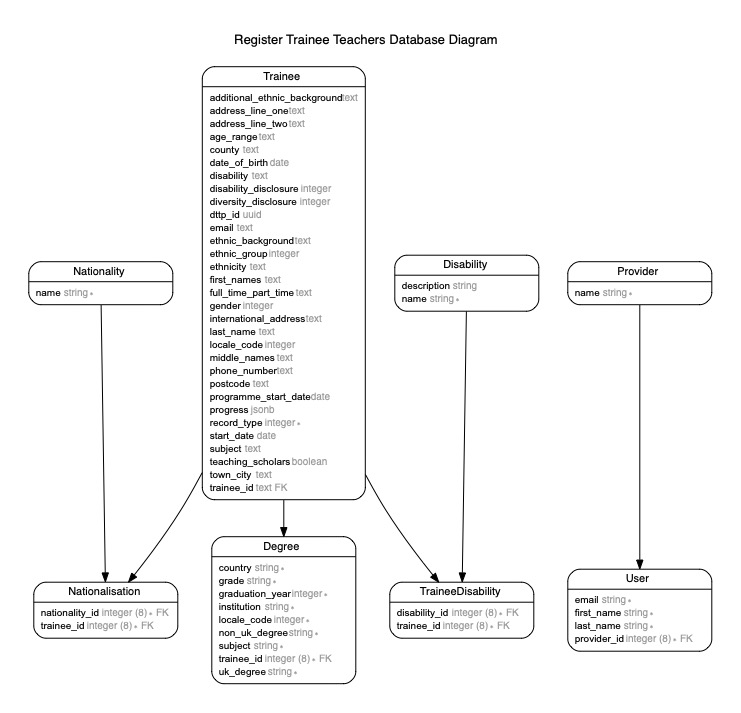
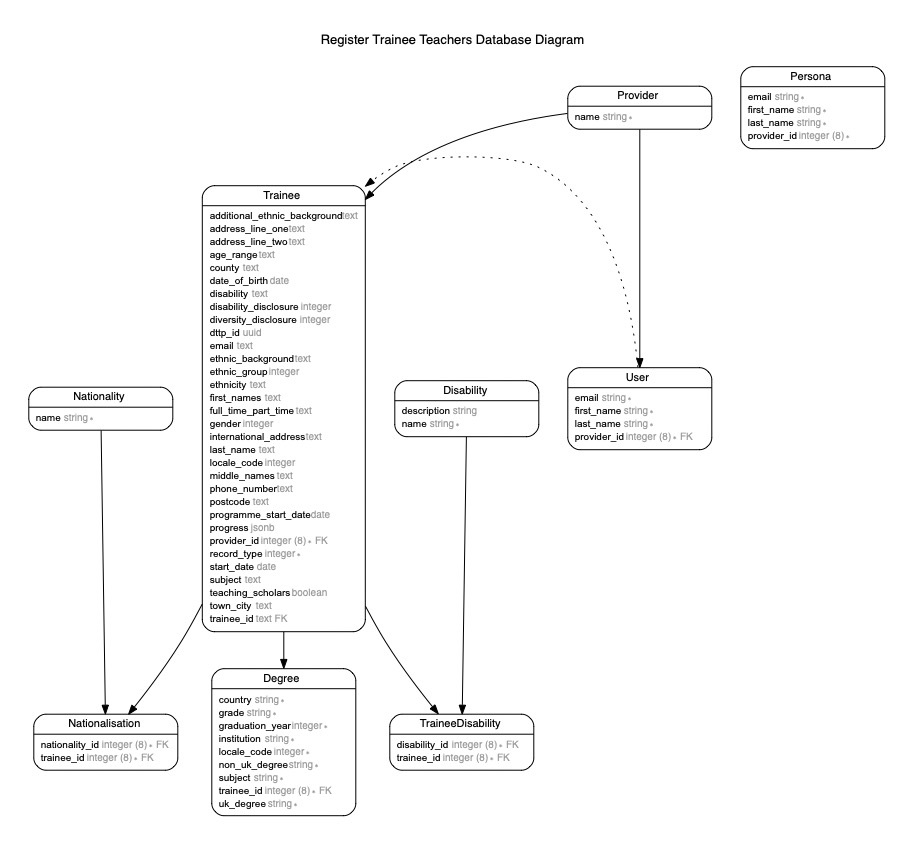
[383] Associate trainees with user's provider

diff --git a/db/schema.rb b/db/schema.rb
@@ -10,7 +10,7 @@
 #
 # It's strongly recommended that you check this file into your version control system.
 
-ActiveRecord::Schema.define(version: 2020_11_09_135332) do
+ActiveRecord::Schema.define(version: 2020_11_10_140112) do
 
   # These are extensions that must be enabled in order to support this database
   enable_extension "plpgsql"
@@ -104,6 +104,7 @@ ActiveRecord::Schema.define(version: 2020_11_09_135332) do
     t.text "age_range"
     t.date "programme_start_date"
     t.jsonb "progress", default: {}
+    t.bigint "provider_id", null: false
     t.index ["disability_disclosure"], name: "index_trainees_on_disability_disclosure"
     t.index ["diversity_disclosure"], name: "index_trainees_on_diversity_disclosure"
     t.index ["dttp_id"], name: "index_trainees_on_dttp_id"
@@ -111,6 +112,7 @@ ActiveRecord::Schema.define(version: 2020_11_09_135332) do
     t.index ["gender"], name: "index_trainees_on_gender"
     t.index ["locale_code"], name: "index_trainees_on_locale_code"
     t.index ["progress"], name: "index_trainees_on_progress", using: :gin
+    t.index ["provider_id"], name: "index_trainees_on_provider_id"
     t.index ["record_type"], name: "index_trainees_on_record_type"
   end
 
@@ -130,5 +132,6 @@ ActiveRecord::Schema.define(version: 2020_11_09_135332) do
   add_foreign_key "nationalisations", "trainees"
   add_foreign_key "trainee_disabilities", "disabilities"
   add_foreign_key "trainee_disabilities", "trainees"
+  add_foreign_key "trainees", "providers"
   add_foreign_key "users", "providers"
 end

diff --git a/app/controllers/trainees_controller.rb b/app/controllers/trainees_controller.rb
@@ -1,10 +1,12 @@
 class TraineesController < ApplicationController
+  before_action :authenticate
+
   def index
-    @trainees = Trainee.all
+    @trainees = current_user.trainees.all
   end
 
   def show
-    @trainee = Trainee.find(params[:id])
+    @trainee = current_user.trainees.find(params[:id])
   end
 
   def new
@@ -15,7 +17,7 @@ class TraineesController < ApplicationController
     if trainee_params[:record_type] == "other"
       redirect_to trainees_not_supported_route_path
     else
-      @trainee = Trainee.new(trainee_params)
+      @trainee = current_user.provider.trainees.build(trainee_params)
       if @trainee.save
         redirect_to trainee_path(@trainee)
       else
@@ -25,7 +27,7 @@ class TraineesController < ApplicationController
   end
 
   def update
-    @trainee = Trainee.find(params[:id])
+    @trainee = current_user.trainees.find(params[:id])
     @trainee.update!(trainee_params)
     redirect_to trainee_path(@trainee)
   end
@@ -33,8 +35,7 @@ class TraineesController < ApplicationController
 private
 
   def trainee_params
-    params.require(:trainee)
-      .permit(trainee_all_params, nationality_ids: [])
+    params.require(:trainee).permit(trainee_all_params, nationality_ids: [])
   end
 
   def trainee_all_params

diff --git a/spec/features/trainees/diversities/edit_disclosure_spec.rb b/spec/features/trainees/diversities/edit_disclosure_spec.rb
@@ -1,6 +1,8 @@
 require "rails_helper"
 
 feature "edit diversity disclosure", type: :feature do
+  background { given_i_am_authenticated }
+
   scenario "choosing to disclose" do
     given_a_trainee_exists
     when_i_visit_the_diversity_disclosure_page
@@ -28,7 +30,7 @@ feature "edit diversity disclosure", type: :feature do
   end
 
   def given_a_trainee_exists
-    @trainee = create(:trainee, diversity_disclosure: nil)
+    @trainee = create(:trainee, diversity_disclosure: nil, provider: current_user.provider)
   end
 
   def when_i_visit_the_diversity_disclosure_page
@@ -69,8 +71,6 @@ feature "edit diversity disclosure", type: :feature do
   end
 
   def then_i_see_error_messages
-    expect(page).to have_content(
-      I18n.t("activemodel.errors.models.diversities/disclosure.attributes.diversity_disclosure.blank"),
-    )
+    expect(page).to have_content(I18n.t("activemodel.errors.models.diversities/disclosure.attributes.diversity_disclosure.blank"))
   end
 end

diff --git a/spec/requests/authentication_spec.rb b/spec/requests/authentication_spec.rb
@@ -1,0 +1,23 @@
+require "rails_helper"
+
+describe "authentication", type: :request do
+  context "attempting to visit a restricted page" do
+    context "without been authenticated" do
+      it "redirects back to the persona page" do
+        get trainees_path
+        expect(response).to redirect_to(personas_path)
+      end
+    end
+
+    context "already authenticated" do
+      before do
+        post sessions_path, params: { user_id: create(:user).id }
+        get trainees_path
+      end
+
+      it "loads the restricted page" do
+        expect(response).to have_http_status(200)
+      end
+    end
+  end
+end

diff --git a/spec/features/trainees/diversities/edit_disability_disclosure_spec.rb b/spec/features/trainees/diversities/edit_disability_disclosure_spec.rb
@@ -1,6 +1,8 @@
 require "rails_helper"
 
 feature "edit disability disclosure", type: :feature do
+  background { given_i_am_authenticated }
+
   scenario "choosing to disclose a disability" do
     given_a_trainee_exists
     when_i_visit_the_disability_disclosure_page
@@ -30,7 +32,7 @@ feature "edit disability disclosure", type: :feature do
 private
 
   def given_a_trainee_exists
-    @trainee = create(:trainee, disability_disclosure: nil)
+    @trainee = create(:trainee, disability_disclosure: nil, provider: current_user.provider)
   end
 
   def when_i_visit_the_disability_disclosure_page

diff --git a/spec/support/features.rb b/spec/support/features.rb
@@ -1,9 +1,13 @@
+require_relative "features/authentication_steps"
+
 RSpec.configure do |config|
   # Store original feature flag values before the examples run
   original_features = {}
 
   # Helper method to normalise the feature metadata key name, eg :feature_trainees -> :trainees
   normalise_feature_name = ->(feature) { feature.to_s.delete_prefix("feature_").to_sym }
+
+  config.include Features::AuthenticationSteps, type: :feature
 
   config.around :each do |example|
     example.metadata.keys.grep(/^feature_.*/) do |metadata_key|

diff --git a/spec/features/trainees/edit_programme_details_spec.rb b/spec/features/trainees/edit_programme_details_spec.rb
@@ -1,6 +1,8 @@
 require "rails_helper"
 
 feature "edit programme details", type: :feature do
+  background { given_i_am_authenticated }
+
   scenario "edit with valid parameters" do
     given_a_trainee_exists
     when_i_visit_the_programme_details_page
@@ -19,7 +21,7 @@ feature "edit programme details", type: :feature do
   end
 
   def given_a_trainee_exists
-    @trainee = create(:trainee)
+    @trainee = create(:trainee, provider: current_user.provider)
   end
 
   def when_i_visit_the_programme_details_page

diff --git a/spec/features/trainees/edit_contact_details_spec.rb b/spec/features/trainees/edit_contact_details_spec.rb
@@ -1,6 +1,8 @@
 require "rails_helper"
 
 feature "edit contact details", type: :feature do
+  background { given_i_am_authenticated }
+
   scenario "edit with valid parameters" do
     given_a_trainee_exists
     when_i_visit_the_contact_details_page
@@ -21,7 +23,7 @@ feature "edit contact details", type: :feature do
   end
 
   def given_a_trainee_exists
-    @trainee = create(:trainee)
+    @trainee = create(:trainee, provider: current_user.provider)
   end
 
   def when_i_visit_the_contact_details_page

diff --git a/spec/features/trainees/diversities/edit_disabilities_spec.rb b/spec/features/trainees/diversities/edit_disabilities_spec.rb
@@ -1,6 +1,8 @@
 require "rails_helper"
 
 feature "edit disability details", type: :feature do
+  background { given_i_am_authenticated }
+
   scenario "choosing a disability" do
     given_a_trainee_exists
     and_disabilities_exist_in_the_system
@@ -21,7 +23,7 @@ feature "edit disability details", type: :feature do
   end
 
   def given_a_trainee_exists
-    @trainee = create(:trainee)
+    @trainee = create(:trainee, provider: current_user.provider)
   end
 
   def and_disabilities_exist_in_the_system

diff --git a/spec/features/trainees/edit_personal_details_spec.rb b/spec/features/trainees/edit_personal_details_spec.rb
@@ -1,6 +1,8 @@
 require "rails_helper"
 
 feature "edit personal details", type: :feature do
+  background { given_i_am_authenticated }
+
   scenario "updates personal details with valid data" do
     given_valid_personal_details_are_provided
     then_the_personal_details_are_updated
@@ -49,7 +51,7 @@ private
   end
 
   def given_a_trainee_exists
-    @trainee ||= create(:trainee)
+    @trainee ||= create(:trainee, provider: current_user.provider)
   end
 
   def and_nationalities_exist_in_the_system

diff --git a/spec/features/trainees/edit_training_details_spec.rb b/spec/features/trainees/edit_training_details_spec.rb
@@ -1,6 +1,8 @@
 require "rails_helper"
 
 feature "edit training details" do
+  background { given_i_am_authenticated }
+
   scenario "edit with valid parameters" do
     given_a_trainee_exists
     when_i_visit_the_training_details_page
@@ -9,7 +11,7 @@ feature "edit training details" do
   end
 
   def given_a_trainee_exists
-    @trainee = create(:trainee)
+    @trainee = create(:trainee, provider: current_user.provider)
   end
 
   def when_i_visit_the_training_details_page

diff --git a/spec/features/trainees/submit_for_trn_spec.rb b/spec/features/trainees/submit_for_trn_spec.rb
@@ -1,6 +1,8 @@
 require "rails_helper"
 
 feature "submit for TRN" do
+  background { given_i_am_authenticated }
+
   before do
     stub_microsoft_oauth_success
     stub_request(:post, "#{Settings.dttp.api_base_url}/contacts").to_return(
@@ -44,7 +46,7 @@ feature "submit for TRN" do
   end
 
   def trainee
-    @trainee ||= create(:trainee)
+    @trainee ||= create(:trainee, provider: current_user.provider)
   end
 
   def stub_microsoft_oauth_success
